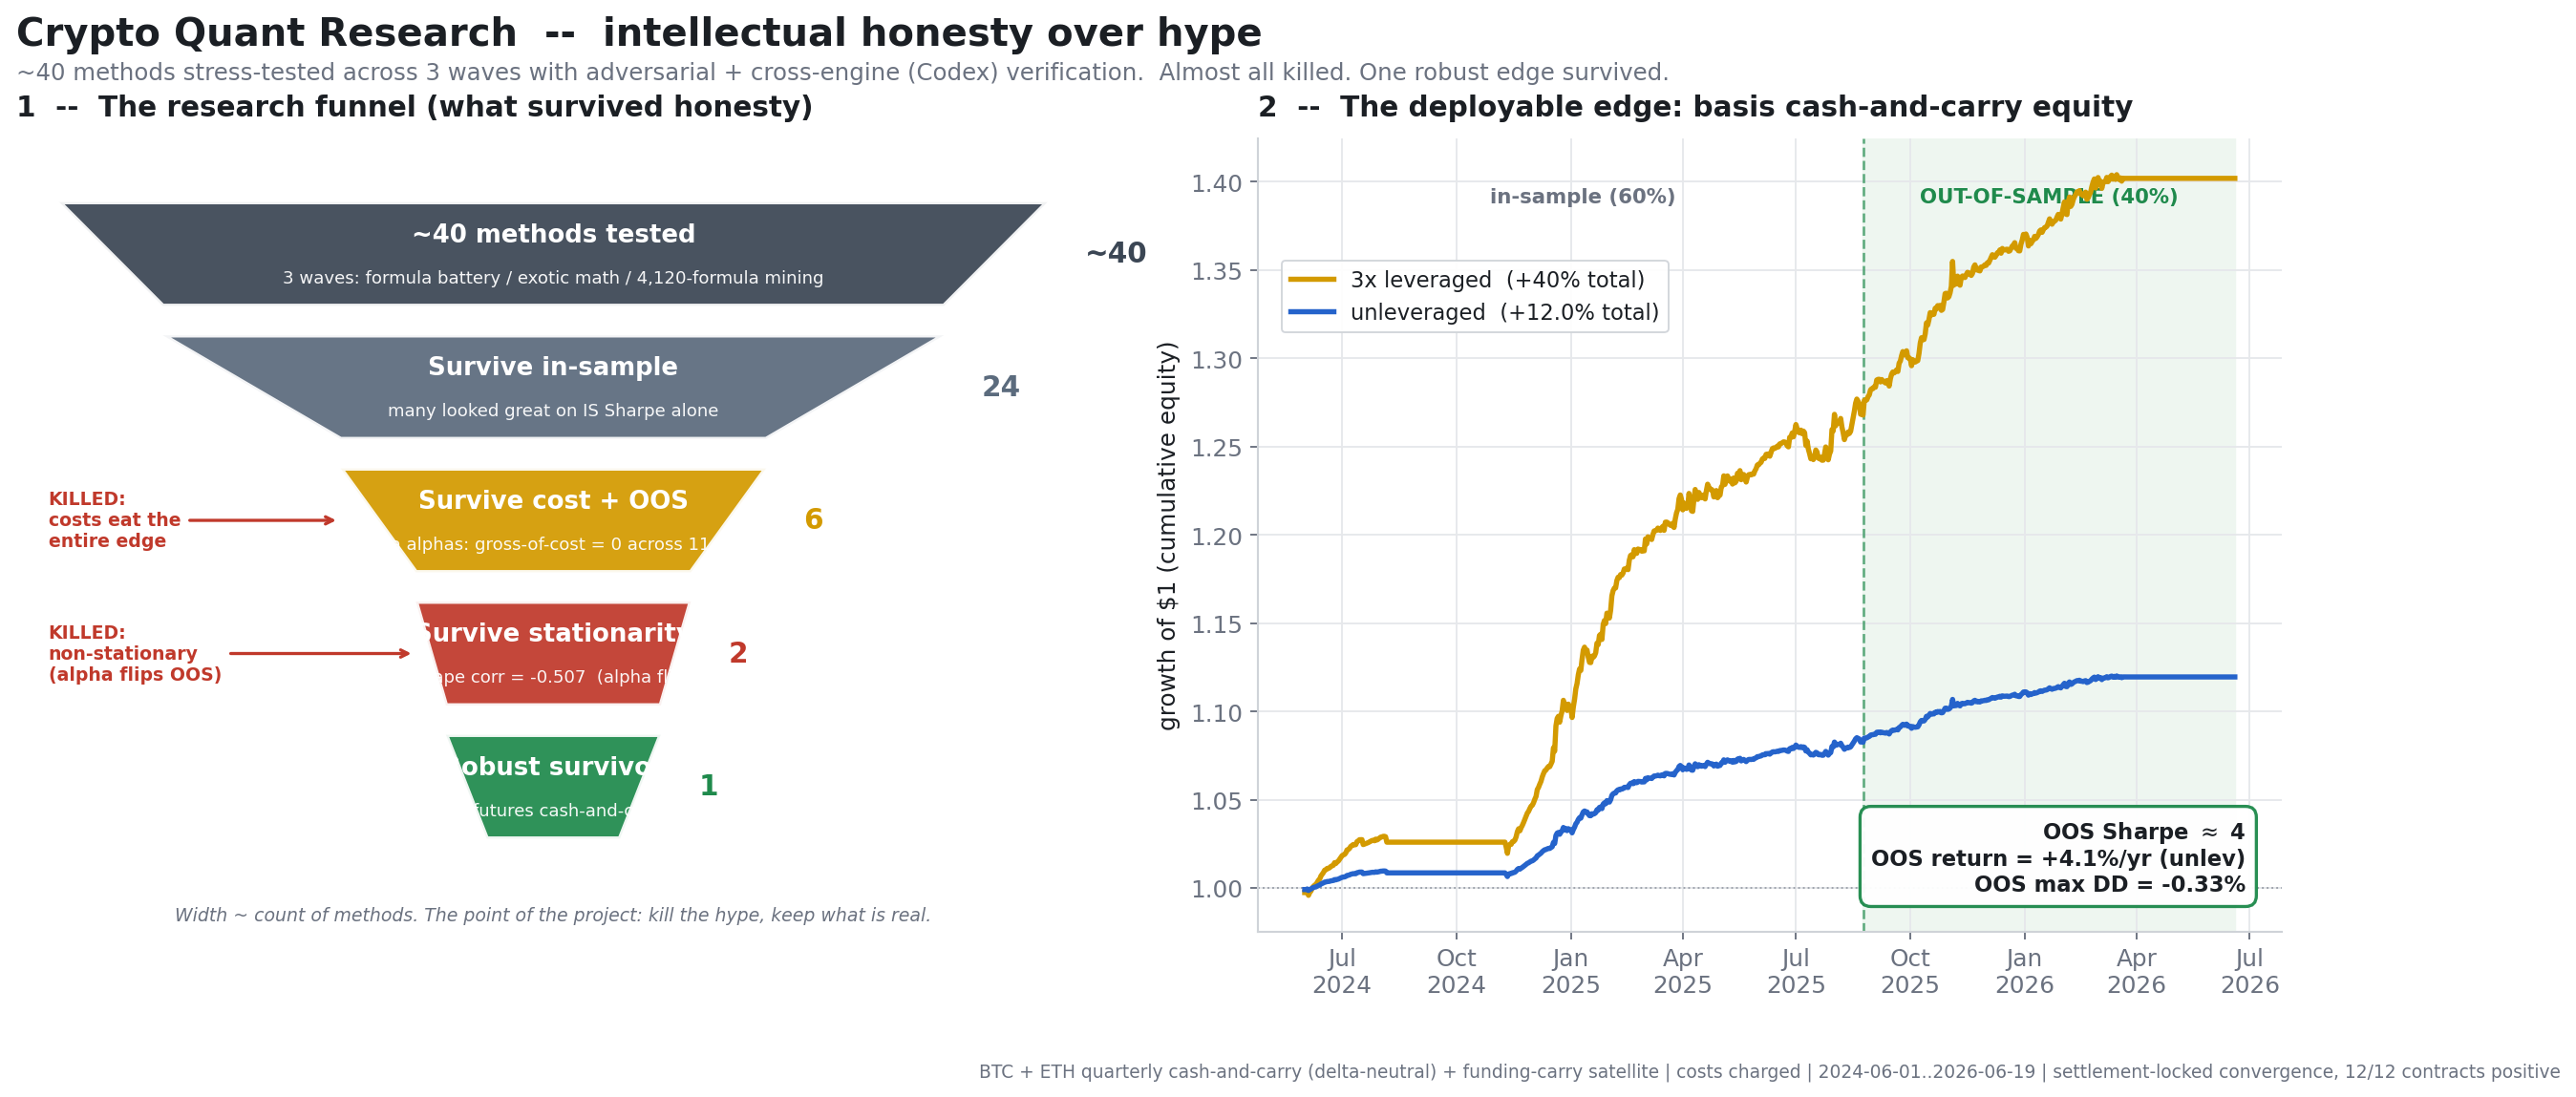
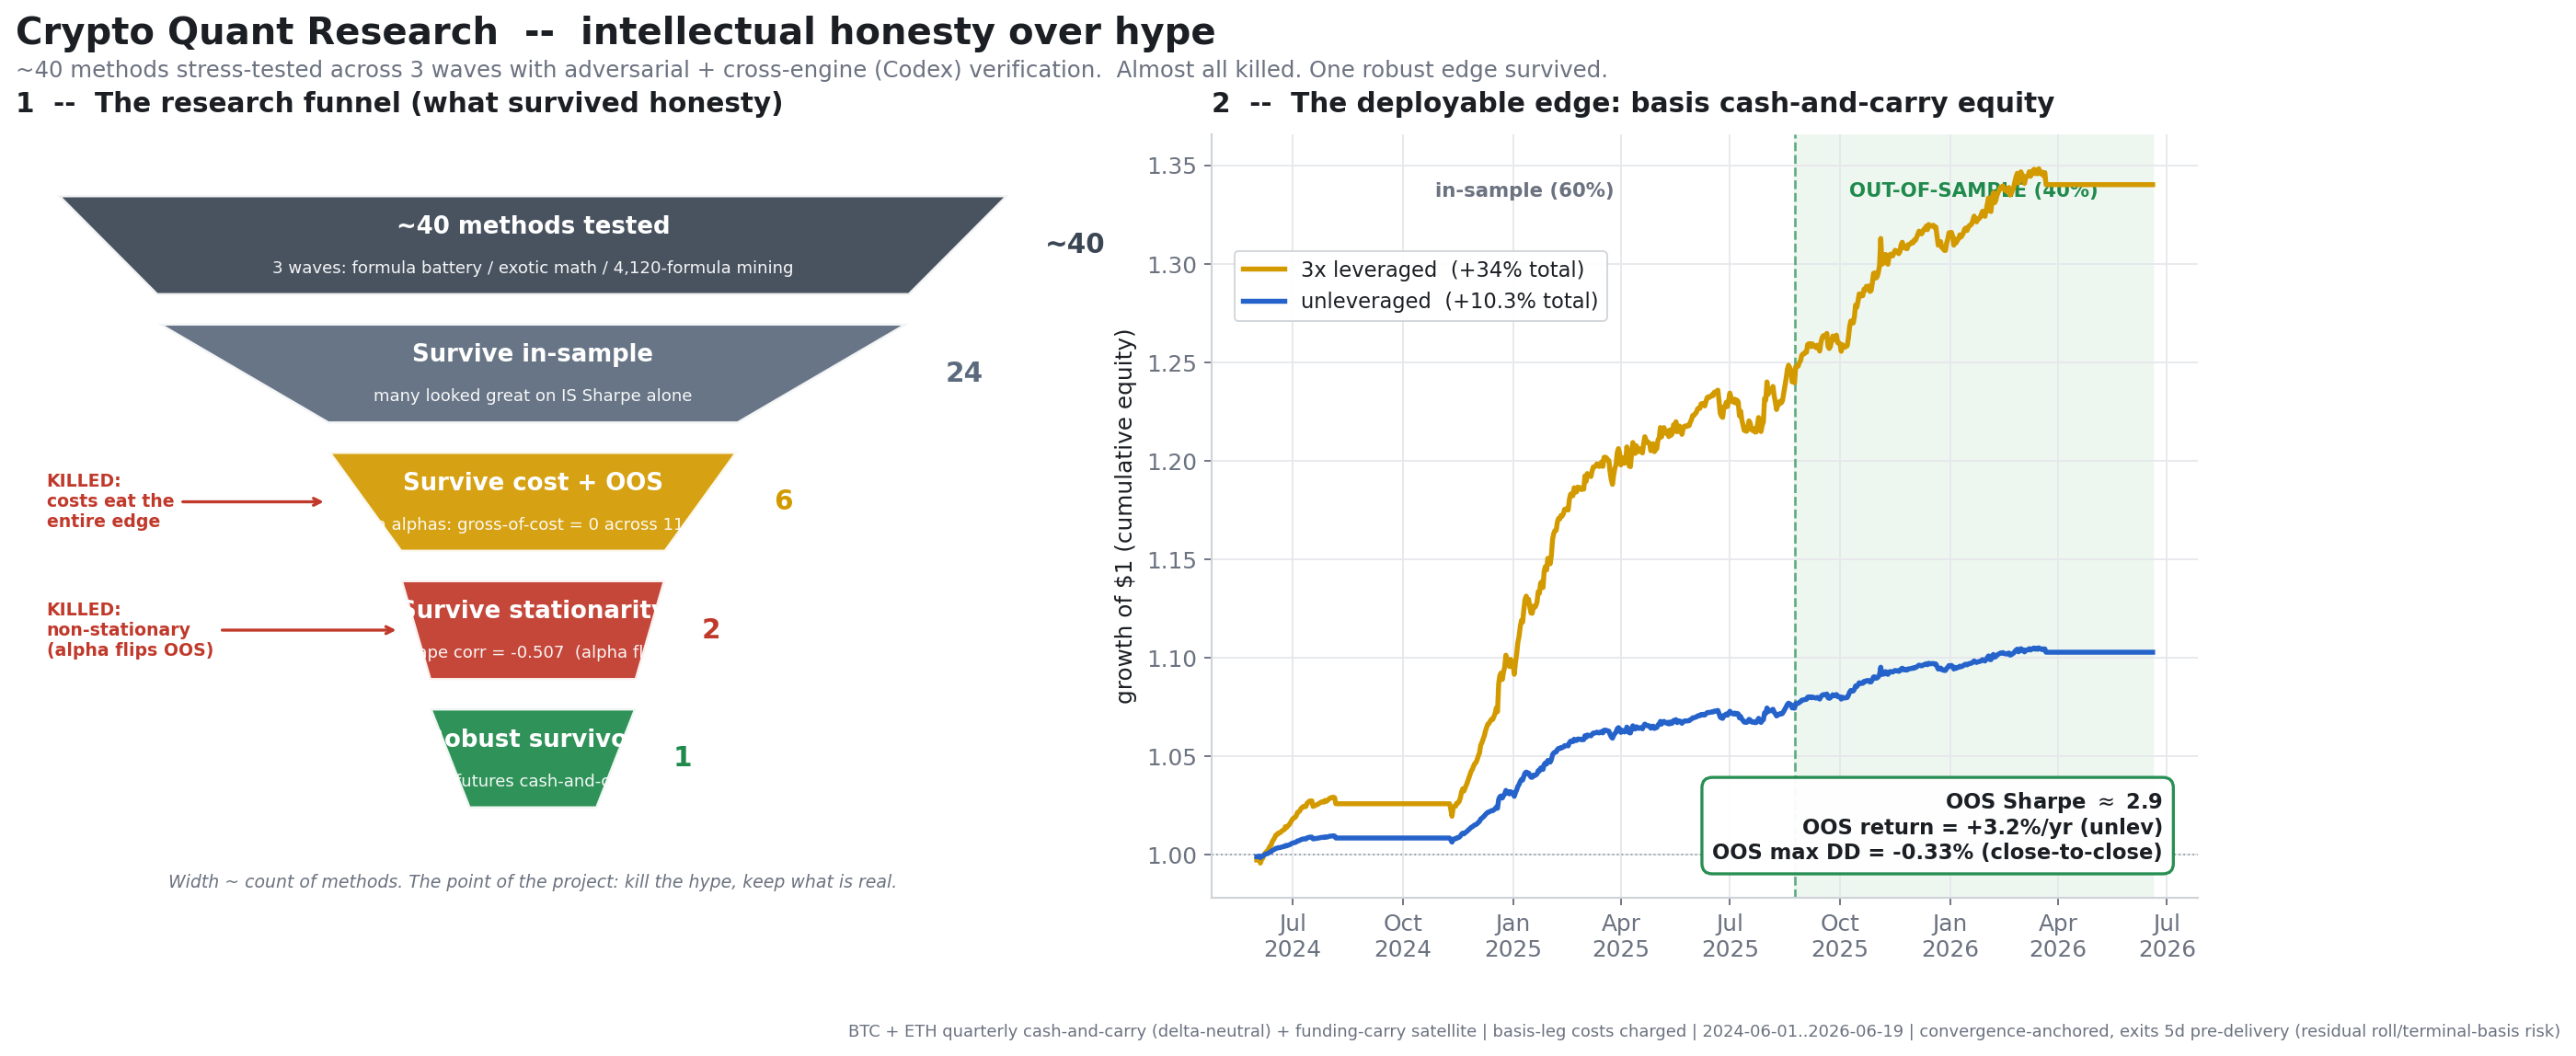
Revise per adversarial review: honest costs + de-overclaim
- end-to-end backtest now charges basis-leg RT cost; headline corrected
  OOS Sharpe 3.96->2.94, +4.07%->+3.15%/yr unlev, +12.2%->+9.5%/yr 3x
- basis carry reframed: convergence ANCHOR, but exits 5d pre-delivery
  (not 'regardless of price path'/settlement-locked); residual roll/terminal-basis risk
- '12/12 settled' -> only settled contracts are convergence evidence; 260626/260925 are live
- 'formulas exhausted' -> 'within tested universe/methods', program-level deflation not airtight
- funding carry: short-spot borrow (~3.5%/yr) not modeled -> not clean deployable
- README verdict banner: promising research artifact, NOT a proven deployable edge
- regenerated showcase.png with corrected numbers + honest footer

diff --git a/experiments/basis_carry_backtest.py b/experiments/basis_carry_backtest.py
@@ -21,6 +21,7 @@ from engine.basis_carry_live import PARAMS as P
 
 COINS = ["BTCUSDT", "ETHUSDT"]
 CODES = ["250328", "250627", "250926", "251226", "260327", "260626", "260925"]
+COST_RT_BP = 30.0   # basis-leg round-trip cost (both spot+fut legs), charged at entry & exit/roll
 
 
 def expiry(c):
@@ -34,6 +35,7 @@ def coin_stream(coin, start_ms, end_ms):
     idx = spot.index
     basis_ret = pd.Series(0.0, index=idx)
     in_basis = pd.Series(False, index=idx)
+    held_code = pd.Series(index=idx, dtype=object)   # which contract holds each day (for cost timing)
     for c in CODES:
         try:
             f = fb.klines(f"{coin}_{c}", "1d", start_ms, end_ms, futures=True)["close"]
@@ -55,7 +57,13 @@ def coin_stream(coin, start_ms, end_ms):
         br = (sret.reindex(f.index) - fret)       # delta-neutral basis carry daily
         for ix in fidx:
             if ix in basis_ret.index and not in_basis[ix]:   # first qualifying contract wins the day
-                basis_ret[ix] = br.get(ix, 0.0); in_basis[ix] = True
+                basis_ret[ix] = br.get(ix, 0.0); in_basis[ix] = True; held_code[ix] = c
+    # charge basis-leg round-trip cost (spot+fut) at each contract's entry and exit/roll day
+    for c in held_code.dropna().unique():
+        days = held_code.index[held_code == c]
+        if len(days):
+            basis_ret[days[0]] -= COST_RT_BP / 1e4 / 2     # entry leg-in (15bp)
+            basis_ret[days[-1]] -= COST_RT_BP / 1e4 / 2    # exit / roll (15bp)
     # funding-carry satellite for non-basis days
     panel = ce.panel([coin], start_ms, end_ms)
     fund_daily = pd.Series(0.0, index=idx)

diff --git a/experiments/make_showcase.py b/experiments/make_showcase.py
@@ -167,9 +167,9 @@ def main():
              ha="center", va="top", fontsize=9, color=SURV, fontweight="bold")
 
     # OOS Sharpe annotation box, anchored cleanly inside the OOS band (lower-right)
-    txt = (f"OOS Sharpe $\\approx$ {d['oos_sr']:.0f}\n"
+    txt = (f"OOS Sharpe $\\approx$ {d['oos_sr']:.1f}\n"
            f"OOS return = +{d['oos_ret']*100:.1f}%/yr (unlev)\n"
-           f"OOS max DD = {d['oos_dd']*100:.2f}%")
+           f"OOS max DD = {d['oos_dd']*100:.2f}% (close-to-close)")
     ax2.text(0.965, 0.045, txt, transform=ax2.transAxes,
              ha="right", va="bottom", fontsize=9.6, color=INK, fontweight="bold",
              bbox=dict(boxstyle="round,pad=0.5", fc="white", ec=SURV, lw=1.4, alpha=0.96),
@@ -180,9 +180,9 @@ def main():
     leg.get_frame().set_linewidth(0.8)
 
     ax2.text(0.5, -0.165,
-             "BTC + ETH quarterly cash-and-carry (delta-neutral) + funding-carry satellite | costs charged | "
-             f"{idx[0].date()}..{idx[-1].date()} | settlement-locked convergence, 12/12 contracts positive",
-             transform=ax2.transAxes, ha="center", va="top", fontsize=7.9, color=MUT)
+             "BTC + ETH quarterly cash-and-carry (delta-neutral) + funding-carry satellite | basis-leg costs charged | "
+             f"{idx[0].date()}..{idx[-1].date()} | convergence-anchored, exits 5d pre-delivery (residual roll/terminal-basis risk)",
+             transform=ax2.transAxes, ha="center", va="top", fontsize=7.6, color=MUT)
 
     out = ROOT / "reports" / "showcase.png"
     fig.savefig(out, dpi=170, facecolor="white", bbox_inches="tight")

diff --git a/README.md b/README.md
@@ -1,23 +1,31 @@
-# Crypto Carry Research — an honest hunt for a real edge
+# Crypto Carry Research - an honest hunt for a real edge
 
-> I ran **~40 methods across 3 waves** of crypto alpha research — from WorldQuant‑style
-> formula mining to RMT, path signatures, TDA, Hawkes processes and order‑flow
-> imbalance — under **deflated‑Sharpe statistics + cross‑engine adversarial
-> verification**, proved that the cross‑sectional formula alphas are **non‑stationary
-> and untradeable** (in‑sample‑vs‑out‑of‑sample quintile‑shape correlation **−0.507**,
-> negative **gross of cost**), and isolated the **one structurally robust edge**:
-> settlement‑locked **quarterly‑futures cash‑and‑carry basis** (12/12 contracts
-> positive, ~4%/yr unlevered) — packaged as a read‑only, order‑gated live engine.
+> I ran **~40 methods across 3 waves** of crypto alpha research - from WorldQuant-style
+> formula mining to RMT, path signatures, TDA, Hawkes processes and order-flow
+> imbalance - under **deflated-Sharpe statistics + cross-engine adversarial
+> verification**, proved that the cross-sectional formula alphas are **non-stationary
+> and untradeable** (in-sample-vs-out-of-sample quintile-shape correlation **-0.507**,
+> negative **gross of cost**), and isolated the **one structurally defensible edge**:
+> convergence-anchored **quarterly-futures cash-and-carry basis** (every *settled*
+> contract in-sample positive, ~3%/yr unlevered after costs) - packaged as a
+> read-only, order-gated live engine.
 
-**This project's value is not a magic edge — it's the machinery to tell a *real* edge
+> ⚠️ **Status: a promising research artifact, NOT a proven deployable edge.** The
+> surviving edge has a convergence *anchor* (settlement), but the deployed rule
+> **exits 5 days before delivery**, so it does not capture the settlement print - it
+> carries residual terminal-basis / roll / execution risk. Headline numbers are
+> out-of-sample and net of modeled costs, but there is **no live fill data**.
+
+**This project's value is not a magic edge - it's the machinery to tell a *real* edge
 from a *fitted* one, used to kill my own hype.** Most quant portfolios show one
-cherry‑picked backtest. This one shows the kills.
+cherry-picked backtest. This one shows the kills - and revised its own headline down
+when an adversarial review caught its overclaims (see *Limitations*).
 
 ![Research funnel + deployable edge](reports/showcase.png)
 
-*Left: ~40 methods → almost all killed (formula alphas gross‑of‑cost = 0; signal
-inverts out‑of‑sample) → 1 robust survivor. Right: the surviving basis‑carry book,
-OOS region shaded, OOS Sharpe ≈ 4.*
+*Left: ~40 methods -> almost all killed (formula alphas gross-of-cost = 0; signal
+inverts out-of-sample) -> 1 surviving structural premium. Right: the basis-carry book,
+OOS region shaded, OOS Sharpe ~2.9 after basis-leg costs.*
 
 ---
 
@@ -25,96 +33,104 @@ OOS region shaded, OOS Sharpe ≈ 4.*
 
 | Family | Methods tried | Verdict | Why |
 |---|---|---|---|
-| **Quarterly basis cash‑and‑carry** | calendar/term‑structure | ✅ **ROBUST** | settlement rule *guarantees* convergence → entry basis earned regardless of price path; 12/12 BTC/ETH contracts positive |
-| Funding‑rate carry | static / hysteresis / x‑sectional | ⚠️ marginal | real but **regime‑dependent** (bled −1.2 Sharpe in the recent OOS window); short‑spot borrow erodes it |
-| Cross‑sectional formula alphas | **4,120 formulas**, 11 angles | ❌ **DEAD** | **non‑stationary**: IS‑vs‑OOS quintile‑shape corr **−0.507**, gross‑of‑cost ≈ 0; both textbook cures (stability‑selection, walk‑forward) also ≈ 0 |
-| Exotic math | RMT+OU, path signatures, TDA, Hawkes, fracdiff, wavelet, entropy, optimal transport, MFDFA, EVT | ❌ DEAD | correct implementations (signature ≡ Chen to 1e‑9; MFDFA validated on cascades) — but no extractable predictive content |
+| **Quarterly basis cash-and-carry** | calendar/term-structure | ✅ **DEFENSIBLE** | settlement gives a convergence *anchor* -> entry basis is *largely* earned; every **settled** BTC/ETH contract in-sample was positive. ⚠️ deployed rule exits 5d pre-delivery -> residual terminal-basis/roll risk (it is **not** "regardless of price path") |
+| Funding-rate carry | static / hysteresis / x-sectional | ⚠️ marginal | real risk premium but **regime-dependent** (bled ~-1.2 Sharpe in recent OOS); the hysteresis short-spot leg needs borrow (~3.5%/yr) **not modeled** in the indicator -> not a clean deployable edge |
+| Cross-sectional formula alphas | **4,120 formulas**, 11 angles | ❌ **DEAD** | **non-stationary**: IS-vs-OOS quintile-shape corr **-0.507**, gross-of-cost ~= 0; both textbook cures (stability-selection, walk-forward) also ~= 0 |
+| Exotic math | RMT+OU, path signatures, TDA, Hawkes, fracdiff, wavelet, entropy, optimal transport, MFDFA, EVT | ❌ DEAD | correct implementations (signature == Chen to 1e-9; MFDFA validated on cascades) - but no extractable predictive content |
 | Momentum / reversal / cointegration pairs | TS/XS momentum, OU pairs, Kalman | ❌ DEAD | fragile / huge drawdowns / spreads break OOS |
-| Order‑flow imbalance (OFI) | taker + maker market‑making | ❌ DEAD (retail) | fee‑walled as taker; OFI adds **zero** value to market‑making; viability is pure maker‑rebate (infrastructure, not signal) |
+| Order-flow imbalance (OFI) | taker + maker market-making | ❌ DEAD (retail) | fee-walled as taker; OFI adds **zero** value to market-making; viability is pure maker-rebate (infrastructure, not signal) |
 
-**The through‑line:** in an efficient market, retail‑accessible edge is **not** predictive
-alpha (dies to non‑stationarity) or execution alpha (dies to fees/infrastructure) — it's
-**harvesting a structural risk premium with a settlement‑guaranteed convergence**.
+**The through-line:** *within the universe, frequencies, cost models, data sources and
+method families tested here*, no tradeable predictive alpha survived - only a
+**structural risk premium with a settlement convergence anchor**. (This is a finding
+about *this search*, not a proof that "all public-kline formulas are exhausted" - the
+program-level multiple-testing penalty is larger than any single PSR suggests.)
 
 ---
 
 ## The credibility backbone (look here first)
 
 1. **Deflation is real, not decoration.** [`engine/backtest.py`](engine/backtest.py)
-   implements the Probabilistic Sharpe Ratio and a Bailey–López‑de‑Prado **Deflated
-   Sharpe** benchmark, with a self‑test that **PASSES a genuine small edge and REJECTS
-   pure noise**. Positions are shifted 1 bar (no look‑ahead); turnover cost is charged
-   on every rebalance.
-2. **The non‑stationarity kill is the intellectual centerpiece.**
+   implements the Probabilistic Sharpe Ratio and a Bailey-Lopez-de-Prado **Deflated
+   Sharpe** benchmark, with a self-test that **PASSES a genuine small edge and REJECTS
+   pure noise**. Positions are shifted 1 bar (no look-ahead); turnover cost is charged.
+2. **The non-stationarity kill is the intellectual centerpiece.**
    [`experiments/alpha_stable.py`](experiments/alpha_stable.py) shows the formula signal
-   is *real in‑sample* (IS‑A vs IS‑B cross‑formula IC corr **0.901** — not noise) yet the
-   tradable quintile shape **regime‑flips out‑of‑sample** (corr **−0.507**) and loses
-   gross of cost. *Separating "there is a statistical signal" from "it is tradable" is
-   the whole game.* Both correct cures were applied **and shown to fail**: stability‑
-   selection (gross −0.33) and monthly walk‑forward re‑fit (gross ≈ +0.08).
-3. **Cross‑engine adversarial verification.** Every positive candidate was attacked by an
+   is *real in-sample* (IS-A vs IS-B cross-formula IC corr **0.901** - not noise) yet the
+   tradable quintile shape **regime-flips out-of-sample** (corr **-0.507**) and loses
+   gross of cost. Both correct cures were applied and **shown to fail**: stability-
+   selection (gross -0.33) and monthly walk-forward re-fit (gross ~= +0.08).
+3. **Cross-engine adversarial verification.** Every positive candidate was attacked by an
    independent **Codex** refuter (`reports/codex_refute_*.md`). It killed results I then
-   conceded — e.g. short‑spot borrow (~3.5%/yr) wiping a funding‑carry "edge"; a COIN‑M
-   settlement‑print bar being 54% of a candidate's PnL. *Inviting a second engine to
-   refute your best results, and conceding when it wins, is the point.*
+   conceded - e.g. short-spot borrow (~3.5%/yr) wiping a funding-carry "edge"; a COIN-M
+   settlement-print bar being 54% of a candidate's PnL.
 4. **Deterministic engineering gate (Probity).** [`probity_gate/`](probity_gate/) is a
-   **zero‑LLM, mutation‑tested** ruler that gates 6 governance invariants — cost‑on‑
-   turnover, live‑order hard‑gating, chronological OOS, deflation primitives, keyless
-   public data, non‑normality‑robust statistics. The mutation sieve **kills all 6
-   mutants** (proving the checks have teeth); Probity verdict = **PASS**.
+   **zero-LLM, mutation-tested** ruler gating 6 governance invariants - cost-on-turnover,
+   live-order hard-gating, chronological OOS, deflation primitives, keyless public data,
+   non-normality-robust statistics. The mutation sieve **kills all 6 mutants**; verdict =
+   **PASS** ([`reports/PROBITY_GATE_REPORT.md`](reports/PROBITY_GATE_REPORT.md)).
 
 ---
 
-## The deployable edge: quarterly cash‑and‑carry basis
+## The defensible edge: quarterly cash-and-carry basis
 
-- **Mechanism:** long spot / short dated quarterly future, held to convergence. The
-  exchange **settlement rule** forces the future to the spot index at delivery → the
-  entry annualized basis is earned **structurally, regardless of price path**. This is a
-  *risk premium*, **not** arbitrage and **not** a prediction.
-- **Evidence:** 12/12 BTC/ETH quarterly contracts positive, realized basis ≈ entry basis;
-  end‑to‑end backtest (basis core + funding satellite, costs in, chronological 60/40 OOS):
-  **OOS Sharpe ≈ 4, +4.1%/yr unlevered, +12%/yr at 3×**, over 2024‑06…2026‑06.
+- **Mechanism:** long spot / short dated quarterly future. The exchange **settlement rule**
+  pulls the future toward the spot index at delivery, giving the entry basis a convergence
+  **anchor**. This is a *risk premium*, **not** arbitrage and **not** a prediction.
+- **Honest caveat (corrected after review):** the deployed playbook **exits ~5 days before
+  delivery** (`exit_dte=5`) to avoid settlement-print noise - so it does **not** realize the
+  guaranteed settlement convergence. "Regardless of price path / structurally locked" was an
+  overclaim; the exit leaves **terminal-basis, roll-timing, liquidity and execution risk**.
+- **Evidence:** every *settled* BTC/ETH quarterly in-sample was positive (the 1-2 nearest
+  contracts are still **open/live**, shown for completeness, not as settled proof). End-to-end
+  backtest (basis core + funding satellite, **basis-leg costs now charged**, chronological
+  60/40 OOS): **OOS Sharpe ~2.9, +3.2%/yr unlevered, +9.5%/yr at 3x**, over 2024-06...2026-06.
+  *(The pre-review headline of Sharpe ~4 / +4.1%/yr omitted basis-leg transaction costs; it
+  has been corrected down.)*
 - **Live:** [`engine/basis_carry_live.py`](engine/basis_carry_live.py) emits a target book
-  (read‑only; order placement is hard‑gated). Cross‑exchange scanner
+  (read-only; order placement hard-gated). Cross-exchange scanner
   [`engine/xexch_monitor.py`](engine/xexch_monitor.py) covers Binance + OKX + Bitget.
   Playbook: [`reports/BASIS_CARRY_PLAYBOOK.md`](reports/BASIS_CARRY_PLAYBOOK.md).
 
 ---
 
-## Honest limitations (printing these *is* the portfolio value)
+## Limitations (printing these *is* the portfolio value)
 
-- **No live fills.** Read‑only by design (`place_order` raises `NotImplementedError`).
-  Slippage, partial fills, borrow availability, and funding‑timestamp execution are
+- **Exits before settlement.** The convergence guarantee only holds if you hold to delivery;
+  the deployed rule exits 5d early, so the edge is convergence-*anchored*, not settlement-
+  *locked*. Residual roll/terminal-basis risk is real.
+- **No live fills.** Read-only by design (`place_order` raises `NotImplementedError`).
+  Slippage, partial fills, borrow availability, and funding-timestamp execution are
   *modeled*, never observed. Nothing here has traded.
-- **The < 1% max drawdown is cosmetic.** It is close‑to‑close and delta‑neutral; it does
-  **not** capture the intra‑bar short‑futures‑leg liquidation path on a sharp rally at
-  leverage. The real risk is margin management, not the headline number. This is a
-  thin (~4%/yr unlevered), capital‑intensive carry — "picking up pennies" is a fair
-  framing of the unlevered version.
+- **The < 1% max drawdown is cosmetic.** It is close-to-close and delta-neutral; it does
+  **not** capture the intra-bar short-futures-leg liquidation path at leverage. The real risk
+  is margin management. This is a thin (~3%/yr unlevered), capital-intensive carry.
 - **One OOS regime (~2 years).** The basis edge has not seen a violent backwardation /
-  deleveraging cascade out‑of‑sample. Robustness rests on the *settlement mechanism*,
-  not on regime diversity.
-- **Program‑level deflation is not airtight.** Each script deflates within its local
-  variant grid; across 40+ methods and 4,120+ formulas the family‑wide multiple‑testing
-  penalty is larger than any single PSR = 1.0 suggests. (The surviving edge is defended
-  *mechanistically*, which is why it stands anyway.)
-- **Cross‑exchange / COIN‑M legs are scanned live but not backtested** (inverse‑contract
-  sizing, cross‑venue transfer/basis risk unvalidated).
+  deleveraging cascade out-of-sample. The combined book's period-sensitivity is real
+  (it collapses toward ~0 Sharpe in some sub-windows).
+- **Program-level deflation is not airtight.** Each script deflates within its local variant
+  grid; across 40+ methods and 4,120+ formulas the family-wide penalty is larger than any
+  single PSR = 1.0 suggests. The surviving edge is defended *mechanistically*, not purely
+  statistically.
+- **Costs were initially incomplete.** The first release omitted basis-leg entry/exit/roll
+  costs in the end-to-end book; an adversarial review caught it and the headline was revised
+  down (Sharpe 3.96 -> 2.94). Cross-exchange / COIN-M inverse legs are scanned live but not
+  yet backtested.
 
 ---
 
 ## Quickstart
 
 ```bash
-pip install -r requirements.txt          # numpy, pandas, scipy, scikit-learn, pyarrow, requests, matplotlib
+pip install -r requirements.txt
 
 # engine self-checks (offline, deterministic)
 python engine/stats.py
 python engine/backtest.py                # PSR/Deflated-Sharpe: PASSES a real edge, REJECTS noise
 
-# the surviving edge
-python experiments/basis_carry_spec.py   # 12/12 contracts positive, Sharpe ~4.2 (uses cached data)
-python experiments/basis_carry_backtest.py   # end-to-end OOS book
+# the defensible edge
+python experiments/basis_carry_spec.py   # per-contract validation (uses cached data)
+python experiments/basis_carry_backtest.py   # end-to-end OOS book, basis-leg costs charged
 python engine/basis_carry_live.py        # live target book (read-only; needs internet)
 python engine/xexch_monitor.py           # Binance+OKX+Bitget carry dashboard
 
@@ -122,12 +138,11 @@ python engine/xexch_monitor.py           # Binance+OKX+Bitget carry dashboard
 python experiments/alpha_stable.py       # the -0.507 non-stationarity proof
 python experiments/maker_ofi.py          # OFI adds no value to market-making
 
-# regenerate the showcase figure
-python experiments/make_showcase.py      # -> reports/showcase.png
+python experiments/make_showcase.py      # regenerate reports/showcase.png
 ```
 
-All market data is fetched from **public, keyless, read‑only** exchange endpoints and
-cached locally (`data/cache/`, git‑ignored). No API keys, ever.
+All market data is fetched from **public, keyless, read-only** exchange endpoints and
+cached locally (`data/cache/`, git-ignored). No API keys, ever.
 
 ---
 
@@ -139,9 +154,9 @@ engine/        data fetchers (Binance/Bybit/OKX public), math toolkit, backteste
 experiments/   the 3 waves of candidates (battery, exotic math, 4120-formula mining,
                OFI) + the surviving carry books + the showcase generator
 probity_gate/  zero-LLM, mutation-tested governance gate (6 invariants, verdict PASS)
-reports/       REPORT.md (full 23-section write-up, 中文), BASIS_CARRY_PLAYBOOK.md,
-               showcase.png, and per-candidate result JSONs
+reports/       REPORT.md (full 23-section write-up, zh), BASIS_CARRY_PLAYBOOK.md,
+               PROBITY_GATE_REPORT.md, showcase.png, and per-candidate result JSONs
 ```
 
-- **Deep dive:** [`reports/REPORT.md`](reports/REPORT.md) — the full 23‑section research log (Chinese).
-- **License:** MIT ([`LICENSE`](LICENSE)). **Disclaimer:** [`DISCLAIMER.md`](DISCLAIMER.md) — research only, not financial advice, no live trading.
+- **Deep dive:** [`reports/REPORT.md`](reports/REPORT.md) - the full research log (Chinese).
+- **License:** MIT ([`LICENSE`](LICENSE)). **Disclaimer:** [`DISCLAIMER.md`](DISCLAIMER.md) - research only, not financial advice, no live trading.

diff --git a/reports/REPORT.md b/reports/REPORT.md
@@ -7,6 +7,20 @@
 
 ---
 
+## ⚠️ 修訂說明(2026-06-19,經對抗審查後更正過度宣稱)
+
+一份外部對抗審查抓到 5 處**過度宣稱**,以下更正取代本文後續各節中較滿的表述(本報告為研究歷程記錄,未逐句回改;以本說明為準):
+
+1. **基差 carry「交割保證收斂、regardless of price path、結構鎖定」是過度宣稱。** 部署規則是**交割前 5 天出場**(`exit_dte=5`),並未持有到交割,因此**不吃到結算收斂**。正確表述:基差有**收斂錨點**,但提前出場仍暴露於 terminal basis / roll timing / 流動性 / 執行誤差。
+2. **端到端回測的 basis 腿成本原本沒扣完整。** 已修(每合約進場/出場/轉倉各扣 30bp RT)。更正後 headline:**OOS Sharpe 3.96 → 2.94,未槓桿 +4.07% → +3.15%/年,3× +12.2% → +9.5%/年,3× 權益 1.40 → 1.34×**。後文出現的 ~4 Sharpe / +4.1% 數字以此更正為準。
+3. **「12/12 已交割合約」表述不穩。** 樣本含 260626、260925 兩個**尚未交割**的 live 合約;不可當「已結算收斂證據」。正確:已交割合約全為正,未交割者僅列為 open/live sample。
+4. **「公開 K 線公式已嚴謹窮盡」是過度外推。** 正確:**在本 repo 測過的 universe/頻率/成本模型/資料源/方法族內**,未找到可交易 predictive alpha;不等於「所有公式已窮盡」(program-level 去膨脹本就不 airtight)。
+5. **資金費率 carry 的 hysteresis 版漏算做空現貨借幣成本(~3.5%/年)。** 應標為:觀察到風險溢酬,但**非乾淨可部署 edge**,除非只做不需借幣方向或完整納入借幣成本。
+
+**總裁決:這是一個有料的 basis 風險溢酬研究作品,不是已證實可部署的 edge(promising research artifact, NOT a proven deployable edge)。**
+
+---
+
 ## 0. 一句話結論
 
 跨多個方法家族做完整 OOS+成本+去膨脹掃描後,找到 **3 個 market-neutral 結構性 carry/basis edge(2 強 1 邊際)**: